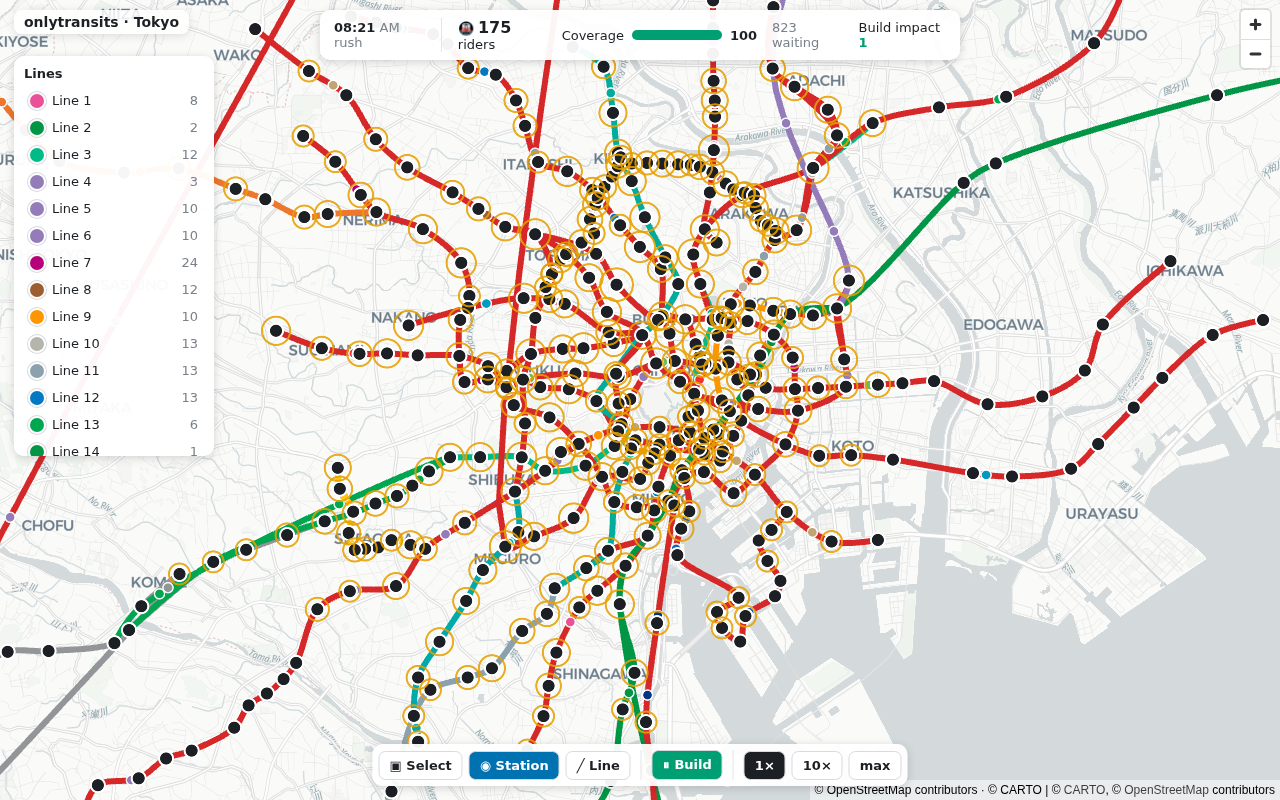
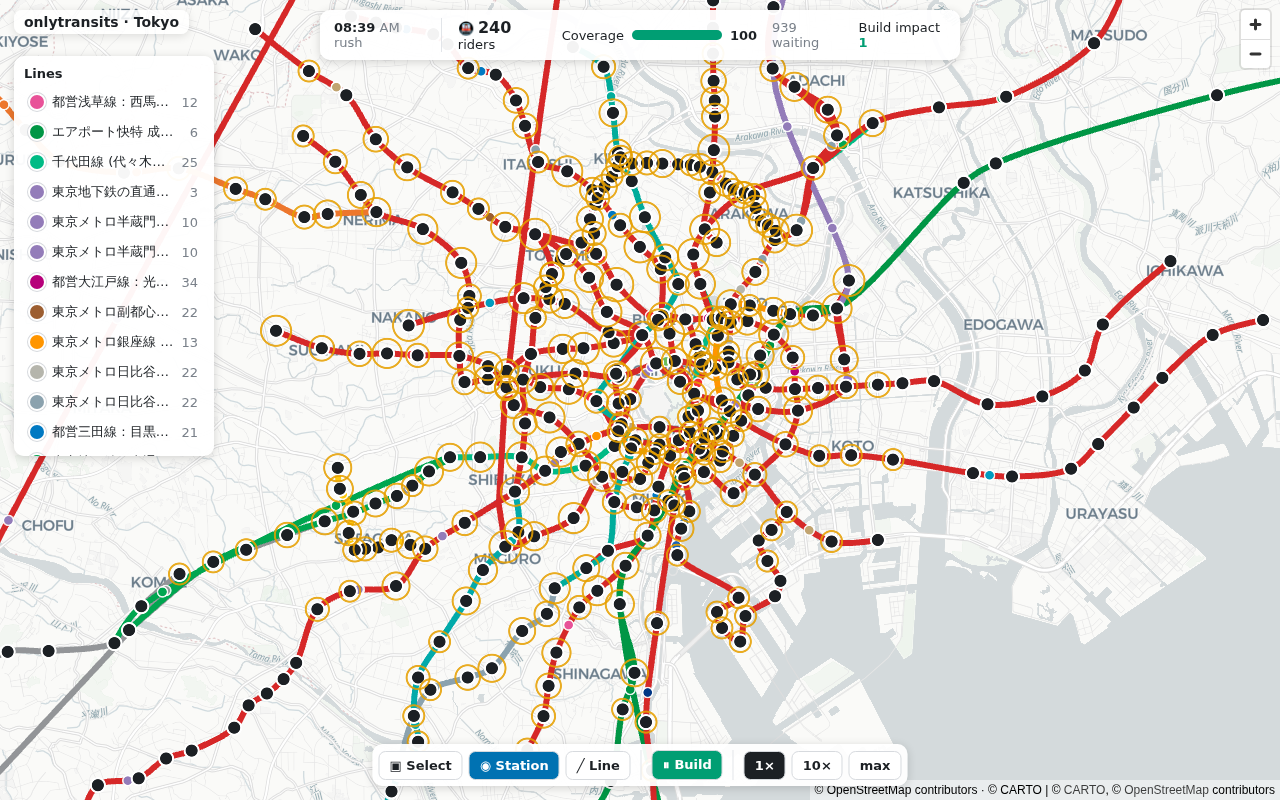
feat: real line names + loop lines + importer fix for Jurong/branches (#6, #7)
- Line gains name + loop_line; CreateLine carries them (serde-default so old commands parse).
- Loop support: closed polyline, forward-only motion (wrap at the circuit end, no reverse),
  loop-aware dispatch spacing + board/alight via station_for_stop_index. cargo 25/25 (loop test).
- build_networks.py: filter construction/proposed routes + drop <3-stop stubs (kills the
  under-construction Jurong Regional Line + airport people-movers) + detect loops (roundtrip /
  closed ring). Regenerated: SG 10 lines (loops: Bukit Panjang/Punggol/Sengkang LRT).
- UI shows real names (MRT East-West Line, ...) in the line list + editor; LineView/LineStat
  carry name + loop. vitest 10, e2e network 2/2.

diff --git a/packages/app/src/ui/panels.ts b/packages/app/src/ui/panels.ts
@@ -37,9 +37,9 @@ export function mountPanels(host: HTMLElement, game: Game): void {
         "display:flex;align-items:center;gap:8px;padding:6px;border-radius:6px;cursor:pointer;" +
         (sel ? "background:#eef4fb" : "");
       row.innerHTML =
-        `<span style="width:14px;height:14px;border-radius:50%;background:${hex(l.color)};` +
+        `<span style="width:14px;height:14px;border-radius:50%;flex:0 0 auto;background:${hex(l.color)};` +
         `box-shadow:0 0 0 2px #fff,0 0 0 3px #d7dade"></span>` +
-        `<span style="flex:1">Line ${l.lineId + 1}</span>` +
+        `<span style="flex:1;overflow:hidden;text-overflow:ellipsis;white-space:nowrap" title="${l.name}">${l.name || `Line ${l.lineId + 1}`}</span>` +
         `<span data-testid="line-ridership-${l.lineId}" style="color:#7a818a">${Math.round(l.ridership)}</span>`;
       row.addEventListener("click", () => game.selectLine(l.lineId));
       list.appendChild(row);
@@ -62,7 +62,7 @@ export function mountPanels(host: HTMLElement, game: Game): void {
 
     if (l.trains === 0) {
       editor.innerHTML =
-        `<div style="font-weight:700;margin-bottom:8px">Line ${id + 1}</div>` +
+        `<div style="font-weight:700;margin-bottom:8px">${l.name}</div>` +
         `<button data-testid="assign-trainset" style="width:100%;padding:8px;border:0;border-radius:7px;` +
         `background:#0072b2;color:#fff;font:600 13px system-ui;cursor:pointer">▶ Assign trainset</button>` +
         `<div style="color:#7a818a;margin-top:6px">Adds trains and auto-suggests a headway.</div>`;
@@ -72,7 +72,7 @@ export function mountPanels(host: HTMLElement, game: Game): void {
     }
 
     editor.innerHTML =
-      `<div style="font-weight:700;margin-bottom:8px">Line ${id + 1}</div>` +
+      `<div style="font-weight:700;margin-bottom:8px">${l.name}</div>` +
       `<label style="display:flex;justify-content:space-between;align-items:center;margin:6px 0">` +
       `Trains <input data-testid="trains-input" type="number" min="1" max="8" value="${l.trains}" ` +
       `style="width:56px;padding:4px"></label>` +

diff --git a/packages/app/src/types.ts b/packages/app/src/types.ts
@@ -4,7 +4,7 @@
 
 export type Command =
   | { PlaceStation: { x_mm: number; y_mm: number; name: string | null } }
-  | { CreateLine: { color: number } }
+  | { CreateLine: { color: number; name?: string | null; loop_line?: boolean } }
   | { AddStop: { line: number; station: number; after: number | null } }
   | { AssignTrainset: { line: number; spec: number; count: number } }
   | { SetHeadway: { line: number; headway_ms: number } }
@@ -29,6 +29,7 @@ export interface PerStation {
 
 export interface PerLine {
   lineId: number;
+  name: string;
   color: number;
   ridership: number;
   stops: number;
@@ -66,6 +67,8 @@ export interface StationView {
 
 export interface LineView {
   id: number;
+  name: string;
+  loopLine: boolean;
   color: number;
   stops: number[];
   polylineMm: [number, number][];

diff --git a/packages/app/src/game.ts b/packages/app/src/game.ts
@@ -337,7 +337,7 @@ export class Game {
       this.bridge.apply(cmd.placeStation(x, y, s.name));
     }
     net.lines.forEach((line, li) => {
-      this.bridge.apply(cmd.createLine(parseInt(line.colorHex, 16) >>> 0));
+      this.bridge.apply(cmd.createLine(parseInt(line.colorHex, 16) >>> 0, line.name, line.loop ?? false));
       for (const idx of line.stations) this.bridge.apply(cmd.addStop(li, idx));
       this.bridge.apply(cmd.assignTrainset(li, 0, Math.max(1, Math.min(8, line.trains))));
       this.bridge.apply(cmd.setHeadway(li, Math.round(line.headwayMin * 60_000)));

diff --git a/packages/app/src/commands/codec.ts b/packages/app/src/commands/codec.ts
@@ -6,7 +6,9 @@ export const cmd = {
   placeStation: (x_mm: number, y_mm: number, name: string | null = null): Command => ({
     PlaceStation: { x_mm, y_mm, name },
   }),
-  createLine: (color: number): Command => ({ CreateLine: { color } }),
+  createLine: (color: number, name: string | null = null, loop_line = false): Command => ({
+    CreateLine: { color, name, loop_line },
+  }),
   addStop: (line: number, station: number, after: number | null = null): Command => ({
     AddStop: { line, station, after },
   }),

diff --git a/packages/app/src/sim/network.ts b/packages/app/src/sim/network.ts
@@ -12,6 +12,7 @@ export interface NetLine {
   colorHex: string; // RRGGBB
   headwayMin: number;
   trains: number;
+  loop?: boolean;
   stations: number[]; // ordered indices into stations[]
 }
 

diff --git a/crates/sim/tests/vehicle.rs b/crates/sim/tests/vehicle.rs
@@ -7,7 +7,7 @@ fn line_world() -> World {
     w.apply(&Command::PlaceStation { x_mm: 0, y_mm: 0, name: None });
     w.apply(&Command::PlaceStation { x_mm: 3_000_000, y_mm: 0, name: None }); // 3 km E
     w.apply(&Command::PlaceStation { x_mm: 6_000_000, y_mm: 0, name: None }); // 6 km E
-    w.apply(&Command::CreateLine { color: 1 });
+    w.apply(&Command::CreateLine { color: 1, name: None, loop_line: false });
     w.apply(&Command::AddStop { line: LineId(0), station: StationId(0), after: None });
     w.apply(&Command::AddStop { line: LineId(0), station: StationId(1), after: None });
     w.apply(&Command::AddStop { line: LineId(0), station: StationId(2), after: None });
@@ -61,7 +61,7 @@ fn sharp_corner_detects_tight_radius_straight_does_not() {
     w.apply(&Command::PlaceStation { x_mm: 0, y_mm: 0, name: None });
     w.apply(&Command::PlaceStation { x_mm: 1_000_000, y_mm: 0, name: None });
     w.apply(&Command::PlaceStation { x_mm: 1_000_000, y_mm: 1_000_000, name: None });
-    w.apply(&Command::CreateLine { color: 1 });
+    w.apply(&Command::CreateLine { color: 1, name: None, loop_line: false });
     for s in [0, 1, 2] {
         w.apply(&Command::AddStop { line: LineId(0), station: StationId(s), after: None });
     }
@@ -74,7 +74,7 @@ fn sharp_corner_detects_tight_radius_straight_does_not() {
     s.apply(&Command::PlaceStation { x_mm: 0, y_mm: 0, name: None });
     s.apply(&Command::PlaceStation { x_mm: 1_000_000, y_mm: 0, name: None });
     s.apply(&Command::PlaceStation { x_mm: 2_000_000, y_mm: 0, name: None });
-    s.apply(&Command::CreateLine { color: 1 });
+    s.apply(&Command::CreateLine { color: 1, name: None, loop_line: false });
     for st in [0, 1, 2] {
         s.apply(&Command::AddStop { line: LineId(0), station: StationId(st), after: None });
     }
@@ -82,11 +82,37 @@ fn sharp_corner_detects_tight_radius_straight_does_not() {
 }
 
 #[test]
+fn loop_line_runs_forward_without_reversing() {
+    let mut w = World::new(1, CityData::default());
+    // A square loop of 4 stations.
+    w.apply(&Command::PlaceStation { x_mm: 0, y_mm: 0, name: None });
+    w.apply(&Command::PlaceStation { x_mm: 2_000_000, y_mm: 0, name: None });
+    w.apply(&Command::PlaceStation { x_mm: 2_000_000, y_mm: 2_000_000, name: None });
+    w.apply(&Command::PlaceStation { x_mm: 0, y_mm: 2_000_000, name: None });
+    w.apply(&Command::CreateLine { color: 1, name: Some("Loop".into()), loop_line: true });
+    for s in [0, 1, 2, 3] {
+        w.apply(&Command::AddStop { line: LineId(0), station: StationId(s), after: None });
+    }
+    w.apply(&Command::AssignTrainset { line: LineId(0), spec: 0, count: 2 });
+    w.apply(&Command::SetRunning { running: true });
+    w.tick(50);
+    assert!(w.lines[0].loop_line && w.lines[0].name == "Loop");
+    for _ in 0..8000 {
+        w.tick(50); // run a full circuit+
+    }
+    assert!(w.vehicles.dir.iter().all(|&d| d == 1), "loop trains run forward, never reverse");
+    assert!(
+        w.vehicles.s_mm.iter().all(|&s| s >= 0 && s <= w.lines[0].length_mm()),
+        "loop position stays within the circuit",
+    );
+}
+
+#[test]
 fn no_vehicles_until_running() {
     let mut w = World::new(1, CityData::default());
     w.apply(&Command::PlaceStation { x_mm: 0, y_mm: 0, name: None });
     w.apply(&Command::PlaceStation { x_mm: 3_000_000, y_mm: 0, name: None });
-    w.apply(&Command::CreateLine { color: 1 });
+    w.apply(&Command::CreateLine { color: 1, name: None, loop_line: false });
     w.apply(&Command::AddStop { line: LineId(0), station: StationId(0), after: None });
     w.apply(&Command::AddStop { line: LineId(0), station: StationId(1), after: None });
     w.apply(&Command::AssignTrainset { line: LineId(0), spec: 0, count: 2 });

diff --git a/crates/sim/src/line.rs b/crates/sim/src/line.rs
@@ -16,6 +16,10 @@ const LAT_ACCEL_MM_S2: f64 = 800.0;
 #[derive(Clone, Debug, Serialize, Deserialize)]
 pub struct Line {
     pub color: u32,
+    pub name: String,
+    /// Circular line: the path closes (last stop -> first) and trains loop forward instead
+    /// of reversing at an end.
+    pub loop_line: bool,
     pub stops: Vec<StationId>,
     pub headway_ms: i64,
     pub trainset: Option<TrainsetAssignment>,
@@ -48,6 +52,8 @@ impl Line {
     pub fn new(color: u32, default_headway_ms: i64) -> Self {
         Self {
             color,
+            name: String::new(),
+            loop_line: false,
             stops: Vec::new(),
             headway_ms: default_headway_ms,
             trainset: None,
@@ -139,9 +145,22 @@ impl Line {
         0.0
     }
 
+    /// Station id for a stop index (wraps for loops, where index == stops.len() is the start).
+    pub fn station_for_stop_index(&self, i: usize) -> StationId {
+        if self.stops.is_empty() {
+            return StationId(0);
+        }
+        self.stops[i % self.stops.len()]
+    }
+
     /// Rebuild the smoothed polyline + arc-length tables from the ordered stop positions.
+    /// For a loop the path is closed (first stop appended) so trains run a full circuit.
     pub fn rebuild_from_points(&mut self, stop_pts: &[PointMm]) {
-        let (poly, stop_idx) = smooth_centripetal(stop_pts);
+        let mut pts: Vec<PointMm> = stop_pts.to_vec();
+        if self.loop_line && pts.len() >= 3 {
+            pts.push(pts[0]);
+        }
+        let (poly, stop_idx) = smooth_centripetal(&pts);
         self.polyline = poly;
         // Cumulative arc-length along the dense polyline.
         self.arclen_mm.clear();

diff --git a/crates/sim/src/vehicle.rs b/crates/sim/src/vehicle.rs
@@ -113,7 +113,8 @@ pub(crate) fn advance(world: &mut World, dt_ms: i64) {
             .trainset
             .map(|t| trainset_spec(t.spec))
             .unwrap_or_else(|| trainset_spec(0));
-        let dir = v.dir[i] as i64;
+        // Loops always run forward (+1); out-and-back uses the stored direction.
+        let dir = if line.loop_line { 1 } else { v.dir[i] as i64 };
         let s = v.s_mm[i];
         // Stops sit at specific arc-lengths along the smoothed polyline.
         let stop_idx = next_stop_index(&line.stop_arclen_mm, s, dir);
@@ -155,8 +156,14 @@ pub(crate) fn advance(world: &mut World, dt_ms: i64) {
             nv = 0;
             v.dwell_until_ms[i] = clock + spec.dwell_ms;
             // Record arrival at this stop's station for the board/alight phase.
-            v.at_station[i] = line.stops[stop_idx].0 as i32;
-            if stop_idx + 1 >= line.stop_arclen_mm.len() {
+            v.at_station[i] = line.station_for_stop_index(stop_idx).0 as i32;
+            if line.loop_line {
+                // Reaching the closing vertex wraps back to the start; never reverse.
+                if stop_idx + 1 >= line.stop_arclen_mm.len() {
+                    new_s = 0;
+                }
+                v.dir[i] = 1;
+            } else if stop_idx + 1 >= line.stop_arclen_mm.len() {
                 v.dir[i] = -1; // forward end -> reverse
             } else if stop_idx == 0 {
                 v.dir[i] = 1; // back end -> reverse

diff --git a/scripts/build_networks.py b/scripts/build_networks.py
@@ -85,6 +85,10 @@ def build(cid, meta):
         name = t.get("name") or t.get("ref")
         if not name:
             continue
+        # Skip under-construction / proposed routes (incomplete stops -> stub lines).
+        if t.get("route") in ("construction", "proposed") or t.get("state") in ("construction", "proposed") \
+                or any(k.startswith(("construction", "proposed")) for k in t):
+            continue
         stops = [m["ref"] for m in r.get("members", [])
                  if m["type"] == "node" and str(m.get("role", "")).startswith("stop")]
         if len(stops) < 2:  # fall back to platforms if no stop roles
@@ -121,13 +125,19 @@ def build(cid, meta):
             if si is not None and si != last:
                 seq.append(si)
                 last = si
-        if len(seq) < 2:
+        # Loop detection: tagged roundtrip, or the route returns to its start station.
+        loop = t.get("roundtrip") == "yes"
+        if len(seq) >= 3 and seq[0] == seq[-1]:
+            loop = True
+            seq = seq[:-1]
+        if len(seq) < 3:  # drop 2-stop stubs (under-construction / airport people-movers)
             continue
         lines.append({
             "name": t.get("name") or t.get("ref") or key,
             "colorHex": norm_colour(t, ci),
             "headwayMin": 4,
             "trains": max(4, min(12, len(seq) // 3)),
+            "loop": loop,
             "stations": seq,
         })
 

diff --git a/crates/sim/src/world.rs b/crates/sim/src/world.rs
@@ -254,6 +254,7 @@ impl World {
                     .sum();
                 LineStat {
                     line_id: i as u32,
+                    name: l.name.clone(),
                     color: l.color,
                     ridership: ridership as f64,
                     stops: l.stops.len() as u32,
@@ -323,9 +324,12 @@ impl World {
                 self.demand_dirty = true; // catchment capture must recompute
                 vec![Event::StationPlaced { id, name }]
             }
-            Command::CreateLine { color } => {
+            Command::CreateLine { color, name, loop_line } => {
                 let id = LineId(self.lines.len() as u32);
-                self.lines.push(Line::new(*color, DEFAULT_HEADWAY_MS));
+                let mut l = Line::new(*color, DEFAULT_HEADWAY_MS);
+                l.name = name.clone().unwrap_or_else(|| format!("Line {}", id.0 + 1));
+                l.loop_line = *loop_line;
+                self.lines.push(l);
                 vec![Event::LineCreated { id }]
             }
             Command::AddStop {
@@ -457,6 +461,8 @@ impl World {
             .enumerate()
             .map(|(i, l)| LineView {
                 id: i as u32,
+                name: l.name.clone(),
+                loop_line: l.loop_line,
                 color: l.color,
                 stops: l.stops.iter().map(|s| s.0).collect(),
                 polyline_mm: l

diff --git a/crates/sim/tests/buildability.rs b/crates/sim/tests/buildability.rs
@@ -24,7 +24,7 @@ fn line_world() -> World {
     let mut w = World::new(1, city_with_grid());
     w.apply(&Command::PlaceStation { x_mm: 0, y_mm: 0, name: None });
     w.apply(&Command::PlaceStation { x_mm: 5_000_000, y_mm: 0, name: None });
-    w.apply(&Command::CreateLine { color: 1 });
+    w.apply(&Command::CreateLine { color: 1, name: None, loop_line: false });
     w.apply(&Command::AddStop { line: LineId(0), station: StationId(0), after: None });
     w.apply(&Command::AddStop { line: LineId(0), station: StationId(1), after: None });
     w
@@ -54,7 +54,7 @@ fn open_corridor_has_no_disruption() {
     let mut w = World::new(1, city_with_grid());
     w.apply(&Command::PlaceStation { x_mm: 6_000_000, y_mm: 0, name: None });
     w.apply(&Command::PlaceStation { x_mm: 8_000_000, y_mm: 0, name: None });
-    w.apply(&Command::CreateLine { color: 1 });
+    w.apply(&Command::CreateLine { color: 1, name: None, loop_line: false });
     w.apply(&Command::AddStop { line: LineId(0), station: StationId(0), after: None });
     w.apply(&Command::AddStop { line: LineId(0), station: StationId(1), after: None });
     assert_eq!(w.lines[0].disruption_units, 0);

diff --git a/crates/sim/tests/determinism.rs b/crates/sim/tests/determinism.rs
@@ -10,7 +10,7 @@ fn sample_log() -> Vec<Command> {
         Command::PlaceStation { x_mm: 0, y_mm: 0, name: None },
         Command::PlaceStation { x_mm: 5_000_000, y_mm: 0, name: None },
         Command::PlaceStation { x_mm: 10_000_000, y_mm: 2_000_000, name: Some("Marina".into()) },
-        Command::CreateLine { color: 0x3366cc },
+        Command::CreateLine { color: 0x3366cc, name: None, loop_line: false },
         Command::AddStop { line: LineId(0), station: StationId(0), after: None },
         Command::AddStop { line: LineId(0), station: StationId(1), after: None },
         Command::AddStop { line: LineId(0), station: StationId(2), after: None },
@@ -92,7 +92,7 @@ fn invalid_commands_are_rejected_not_panicking() {
 #[test]
 fn headway_and_count_are_clamped() {
     let mut w = World::new(0, CityData::default());
-    w.apply(&Command::CreateLine { color: 1 });
+    w.apply(&Command::CreateLine { color: 1, name: None, loop_line: false });
     w.apply(&Command::SetHeadway { line: LineId(0), headway_ms: 1 }); // below floor
     w.apply(&Command::AssignTrainset { line: LineId(0), spec: 0, count: 9999 }); // above cap
     let l = &w.lines[0];
